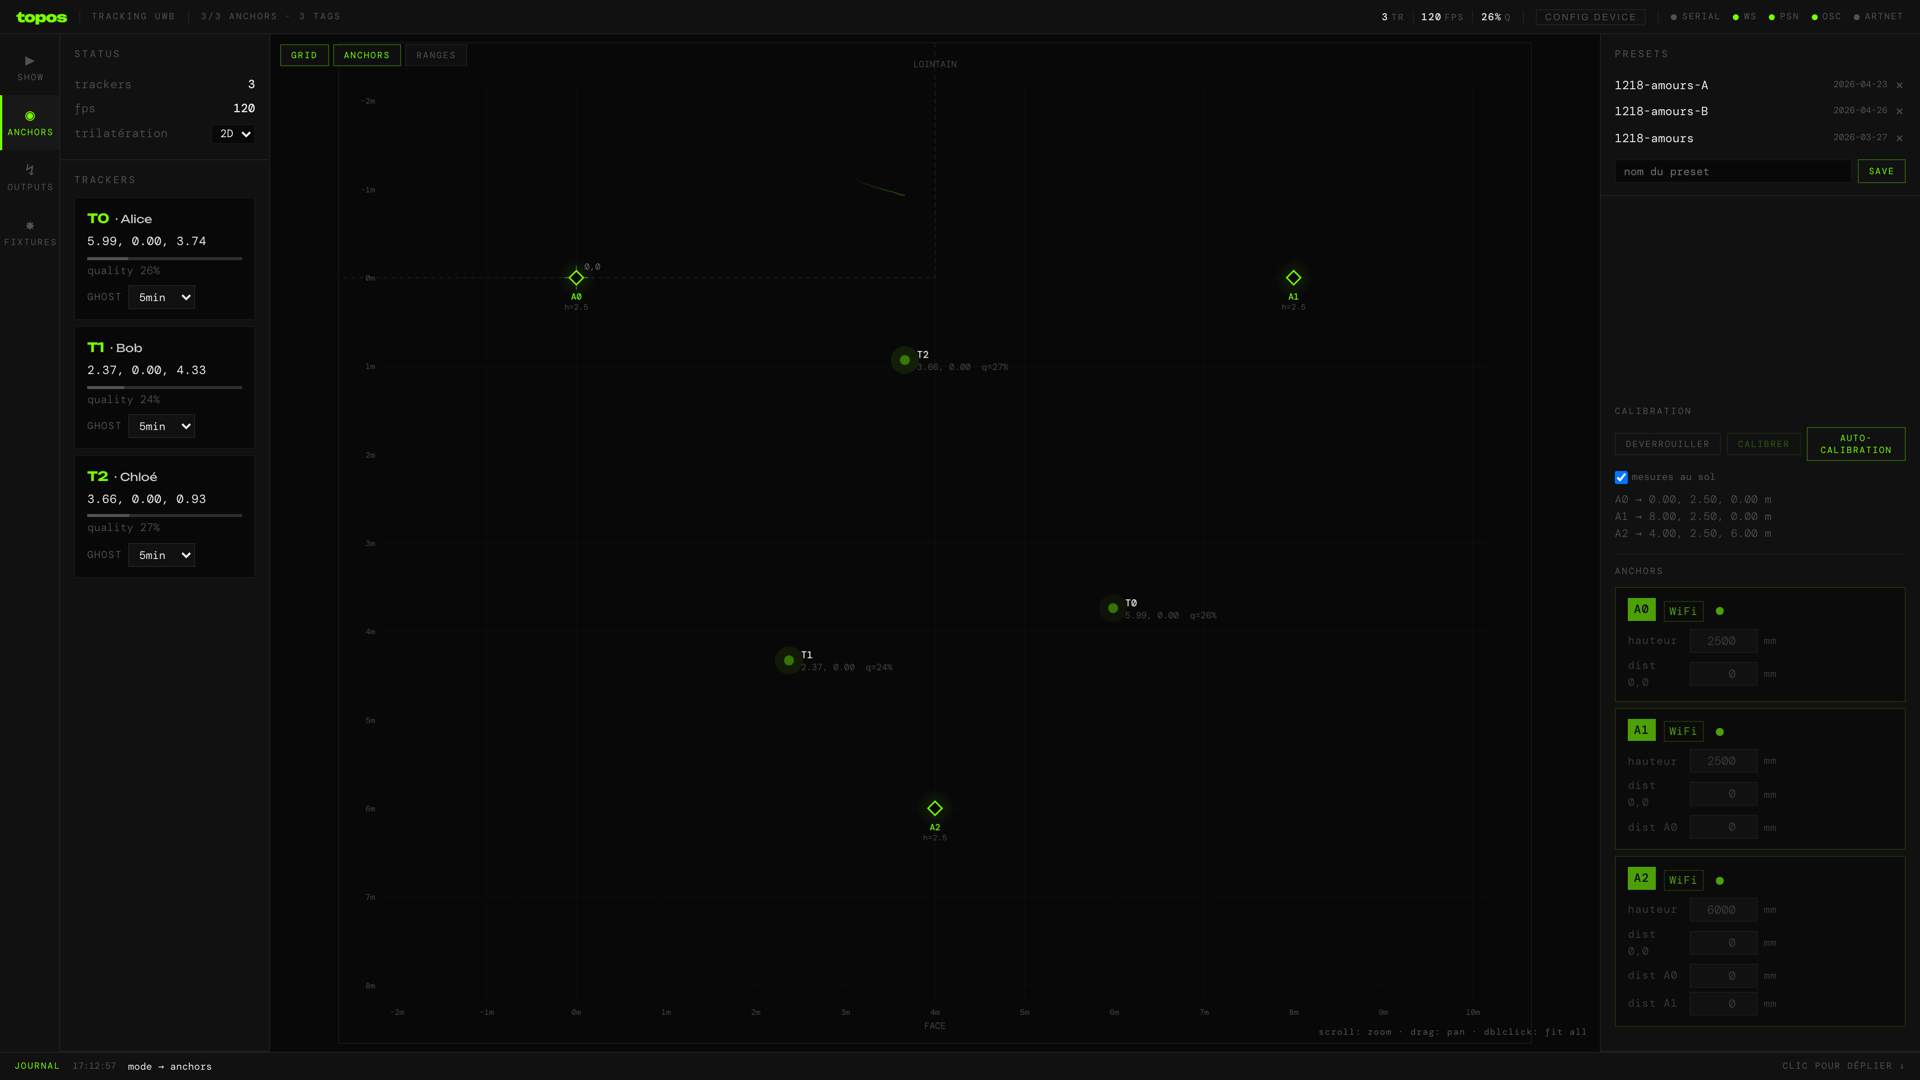
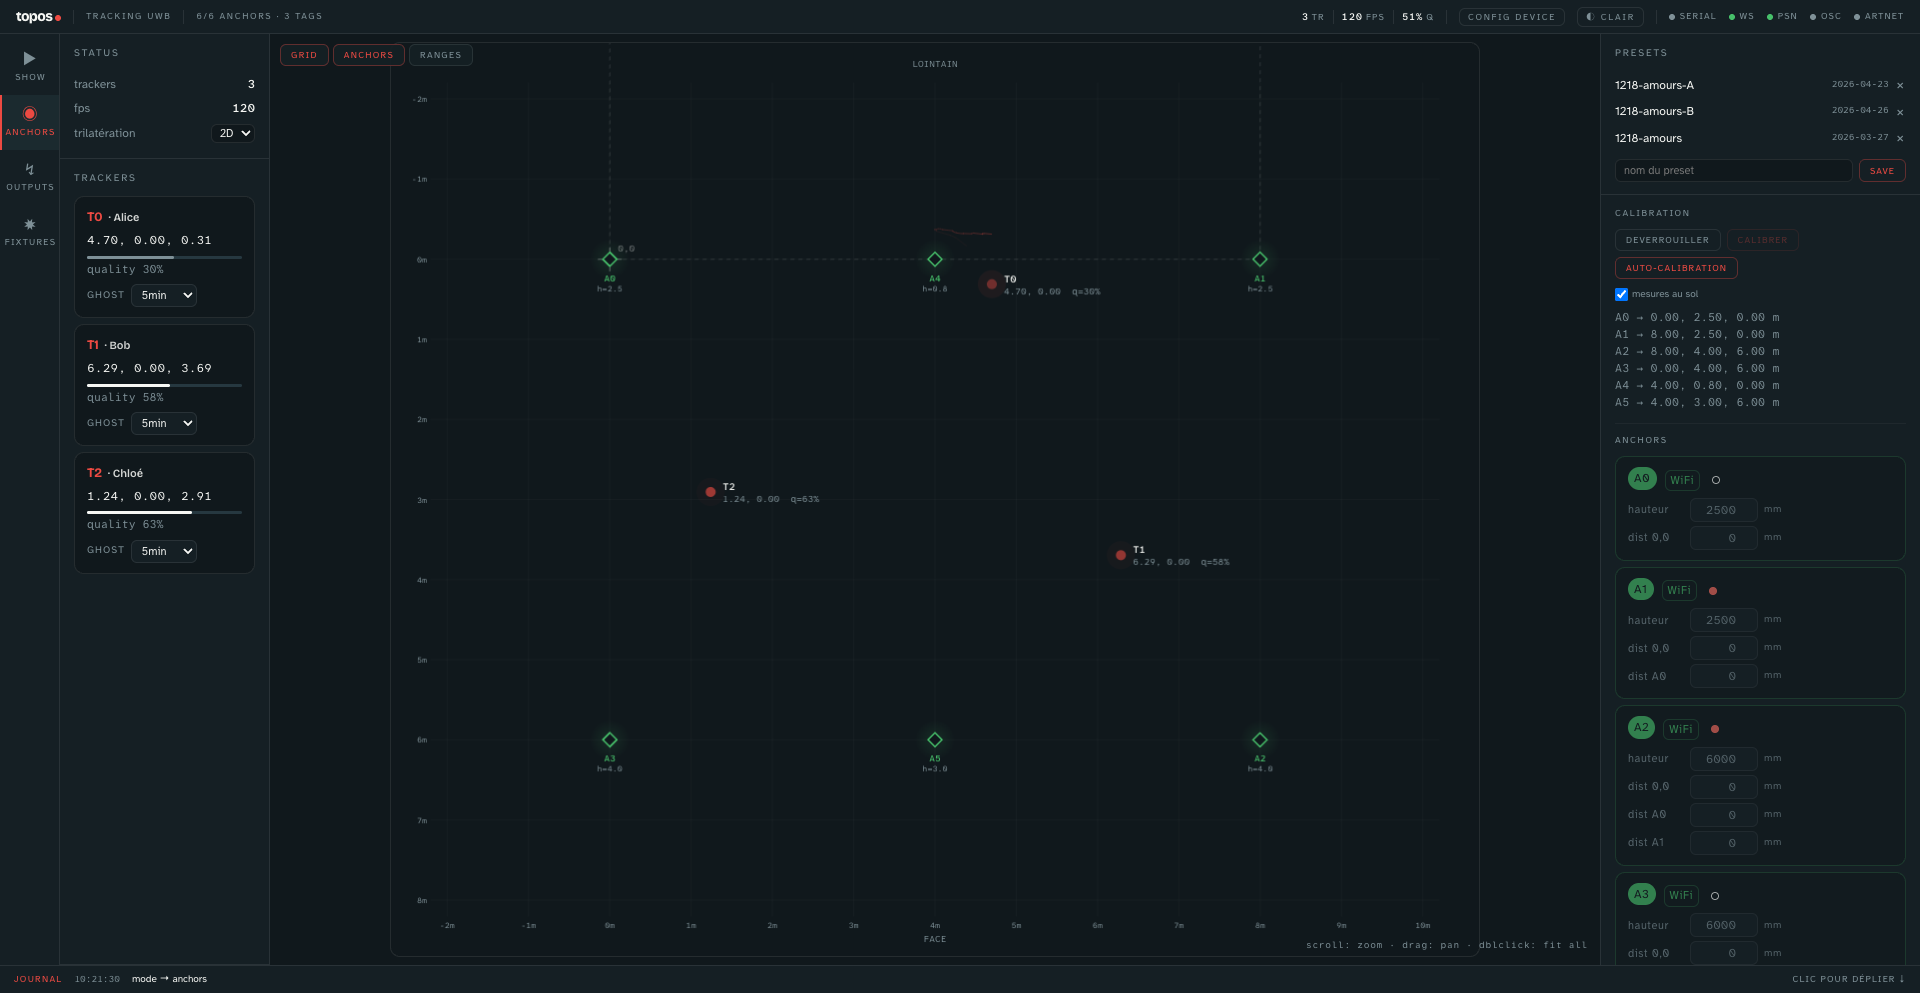
Photos d'atelier et captures 6 ancres du 24 août
- Captures dashboard remplacées par le jeu 6 ancres (show, anchors,
  outputs) + variante thème clair dans la galerie
- Photos de l'ancre A4 dans son boîtier (galerie + page Matériel),
  optimisées 2000 px, EXIF retiré, composant Photo.astro
- Portail web de l'ancre sur la page Matériel (bloc .tp-portrait)
- Légendes et alt mis à jour (six ancres) — FR/EN/ZH

Claude-Session: https://claude.ai/code/session_016BK9WkTp8d8wib8WTfJTKY

diff --git a/src/styles/topos.css b/src/styles/topos.css
@@ -463,6 +463,9 @@ h1[data-page-title],
 	color: var(--tp-ink);
 	font-weight: 700;
 }
+.tp-portrait {
+	max-width: 26rem;
+}
 .tp-gallery {
 	display: grid;
 	gap: 2rem;
